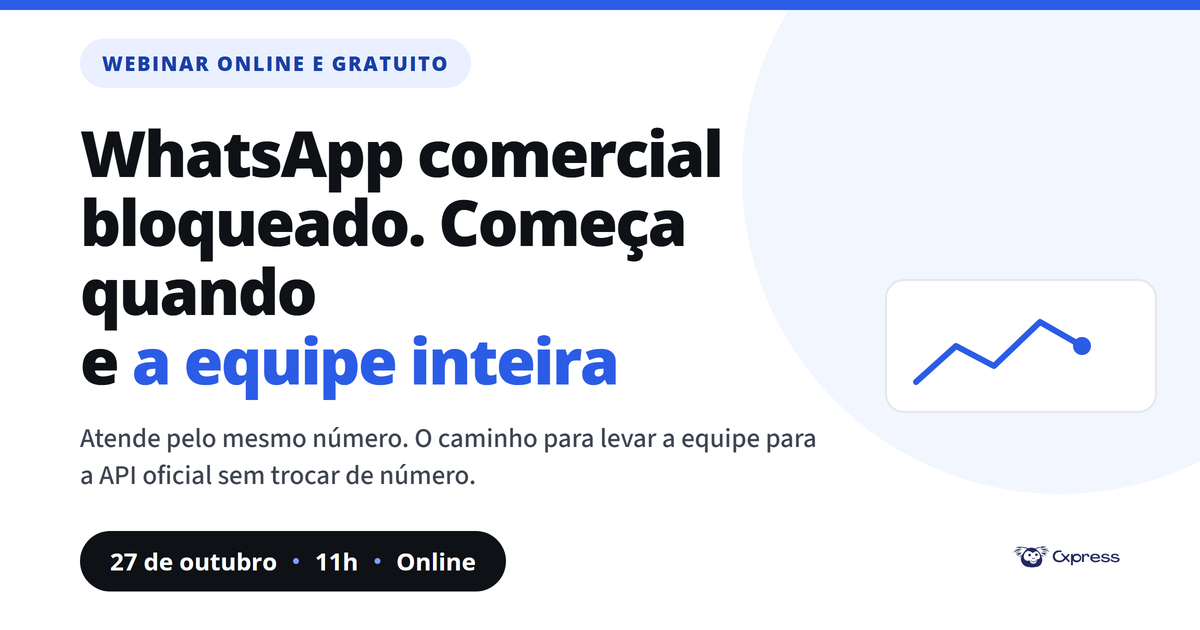
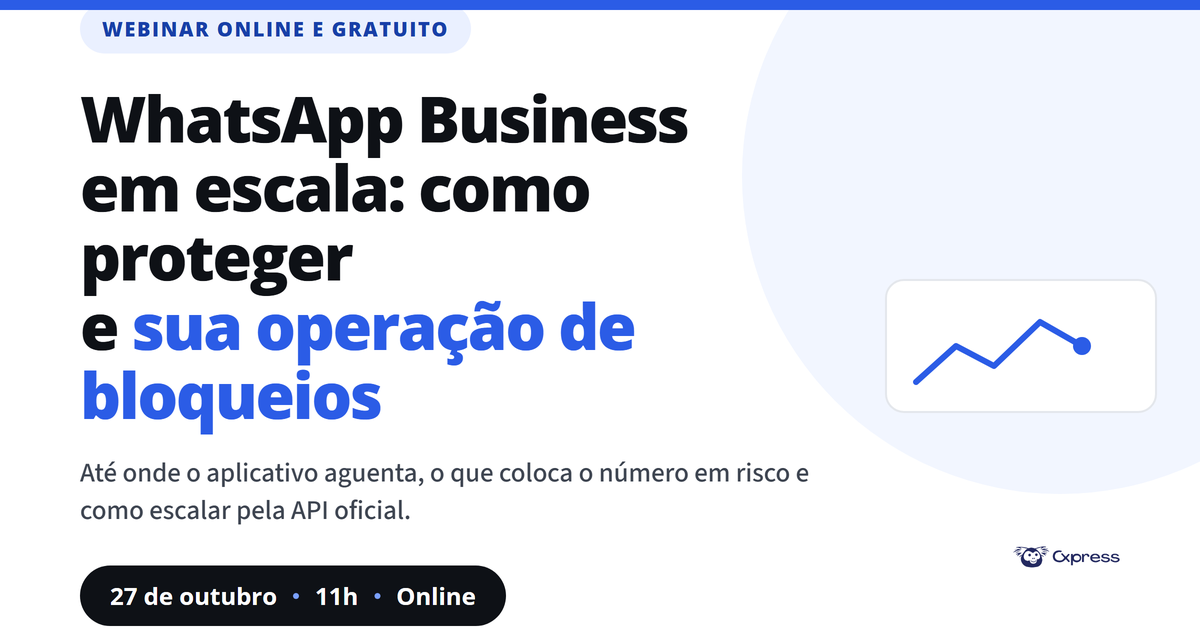
Corrigir premissa factual e trocar titulo da LP do webinar de 27 de outubro (#744)

Changed region(s): [[0.0617, 0.1508, 0.6783, 0.9952], [0.0617, 0.0905, 0.37, 0.1206], [0.0617, 0.0302, 0.37, 0.0603]]

diff --git a/landing-pages/cxpress/webinar-whatsapp-equipe/index.html b/landing-pages/cxpress/webinar-whatsapp-equipe/index.html
@@ -10,12 +10,12 @@ j=d.createElement(s),dl=l!='dataLayer'?'&l='+l:'';j.async=true;j.src=
 'https://www.googletagmanager.com/gtm.js?id='+i+dl;f.parentNode.insertBefore(j,f);
 })(window,document,'script','dataLayer','GTM-T4XDWHL3');</script>
   <!-- End Google Tag Manager -->
-  <title>Webinar WhatsApp comercial bloqueado | 27 de outubro, 11h | Cxpress</title>
+  <title>WhatsApp Business em escala: como proteger sua operação de bloqueios | 27 de outubro | Cxpress</title>
   <link rel="canonical" href="https://{{DOMAIN}}/webinar-whatsapp-equipe">
 
   <link rel="icon" type="image/png" href="../../brand/cxpress/assets/logos/logo-icon.png" />
 
-  <meta name="description" content="Webinar online e gratuito da Cxpress, 27 de outubro às 11h: por que o número da empresa é bloqueado quando a equipe inteira atende pelo mesmo WhatsApp, e como migrar para a API oficial sem trocar o número.">
+  <meta name="description" content="Webinar online e gratuito da Cxpress, 27 de outubro às 11h: até onde o WhatsApp Business aguenta, o que de fato coloca o número em risco de bloqueio e como escalar pela API oficial sem trocar de número.">
   <meta name="robots" content="index, follow">
   <meta name="author" content="Cxpress">
 
@@ -24,15 +24,15 @@ j=d.createElement(s),dl=l!='dataLayer'?'&l='+l:'';j.async=true;j.src=
   <meta property="og:locale" content="pt_BR">
   <meta property="og:url" content="https://{{DOMAIN}}/webinar-whatsapp-equipe">
   <meta property="og:title" content="Webinar WhatsApp comercial bloqueado | 27 de outubro, 11h | Cxpress">
-  <meta property="og:description" content="27 de outubro, 11h. Por que o número cai quando a equipe inteira atende pelo mesmo WhatsApp, e como migrar para a API oficial sem trocar de número.">
+  <meta property="og:description" content="27 de outubro, 11h. Até onde o WhatsApp Business aguenta, o que coloca o número em risco e como escalar pela API oficial sem trocar de número.">
   <meta property="og:image" content="https://{{DOMAIN}}/{{OG_IMAGE_PATH}}">
   <meta property="og:image:width" content="1200">
   <meta property="og:image:height" content="630">
-  <meta property="og:image:alt" content="Webinar gratuito da Cxpress sobre WhatsApp comercial bloqueado quando a equipe inteira atende pelo mesmo número, 27 de outubro às 11h">
+  <meta property="og:image:alt" content="Webinar gratuito da Cxpress sobre como escalar o WhatsApp Business sem risco de bloqueio, 27 de outubro às 11h">
 
   <meta name="twitter:card" content="summary_large_image">
   <meta name="twitter:title" content="Webinar WhatsApp comercial bloqueado | 27 de outubro, 11h | Cxpress">
-  <meta name="twitter:description" content="27 de outubro, 11h. Por que o número cai quando a equipe inteira atende pelo mesmo WhatsApp, e como migrar para a API oficial sem trocar de número.">
+  <meta name="twitter:description" content="27 de outubro, 11h. Até onde o WhatsApp Business aguenta, o que coloca o número em risco e como escalar pela API oficial sem trocar de número.">
   <meta name="twitter:image" content="https://{{DOMAIN}}/{{OG_IMAGE_PATH}}">
 
   <script type="application/ld+json">
@@ -40,8 +40,8 @@ j=d.createElement(s),dl=l!='dataLayer'?'&l='+l:'';j.async=true;j.src=
     "@context": "https://schema.org",
     "@graph": [
       { "@type": "Organization", "@id": "https://home.cxpress.io#organization", "name": "Cxpress", "url": "https://home.cxpress.io", "logo": "https://{{DOMAIN}}/{{BRAND_LOGO_PNG_PATH}}", "sameAs": ["https://www.linkedin.com/company/cxpress", "https://www.instagram.com/cxpress.io/"] },
-      { "@type": "WebPage", "@id": "https://{{DOMAIN}}/webinar-whatsapp-equipe#webpage", "url": "https://{{DOMAIN}}/webinar-whatsapp-equipe", "name": "Webinar WhatsApp comercial bloqueado | 27 de outubro, 11h | Cxpress", "inLanguage": "pt-BR", "isPartOf": { "@id": "https://home.cxpress.io#organization" }, "description": "27 de outubro, 11h. Por que o número cai quando a equipe inteira atende pelo mesmo WhatsApp, e como migrar para a API oficial sem trocar de número." },
-      { "@type": "Event", "name": "Webinar Cxpress: WhatsApp comercial bloqueado e operação com equipe", "startDate": "2026-10-27T11:00:00-03:00", "eventAttendanceMode": "https://schema.org/OnlineEventAttendanceMode", "eventStatus": "https://schema.org/EventScheduled", "inLanguage": "pt-BR", "location": { "@type": "VirtualLocation", "url": "https://{{DOMAIN}}/webinar-whatsapp-equipe" }, "image": "https://{{DOMAIN}}/{{OG_IMAGE_PATH}}", "description": "27 de outubro, 11h. Por que o número cai quando a equipe inteira atende pelo mesmo WhatsApp, e como migrar para a API oficial sem trocar de número.", "organizer": { "@id": "https://home.cxpress.io#organization" }, "offers": { "@type": "Offer", "price": "0", "priceCurrency": "BRL", "availability": "https://schema.org/InStock", "url": "https://{{DOMAIN}}/webinar-whatsapp-equipe" } }
+      { "@type": "WebPage", "@id": "https://{{DOMAIN}}/webinar-whatsapp-equipe#webpage", "url": "https://{{DOMAIN}}/webinar-whatsapp-equipe", "name": "Webinar WhatsApp comercial bloqueado | 27 de outubro, 11h | Cxpress", "inLanguage": "pt-BR", "isPartOf": { "@id": "https://home.cxpress.io#organization" }, "description": "27 de outubro, 11h. Até onde o WhatsApp Business aguenta, o que coloca o número em risco e como escalar pela API oficial sem trocar de número." },
+      { "@type": "Event", "name": "Webinar Cxpress: WhatsApp Business em escala, como proteger a operação de bloqueios", "startDate": "2026-10-27T11:00:00-03:00", "eventAttendanceMode": "https://schema.org/OnlineEventAttendanceMode", "eventStatus": "https://schema.org/EventScheduled", "inLanguage": "pt-BR", "location": { "@type": "VirtualLocation", "url": "https://{{DOMAIN}}/webinar-whatsapp-equipe" }, "image": "https://{{DOMAIN}}/{{OG_IMAGE_PATH}}", "description": "27 de outubro, 11h. Até onde o WhatsApp Business aguenta, o que coloca o número em risco e como escalar pela API oficial sem trocar de número.", "organizer": { "@id": "https://home.cxpress.io#organization" }, "offers": { "@type": "Offer", "price": "0", "priceCurrency": "BRL", "availability": "https://schema.org/InStock", "url": "https://{{DOMAIN}}/webinar-whatsapp-equipe" } }
     ]
   }
   </script>
@@ -362,8 +362,8 @@ height="0" width="0" style="display:none;visibility:hidden"></iframe></noscript>
       <div class="hero__inner">
         <div class="hero__content">
           <span class="eyebrow eyebrow--pill">Webinar online e gratuito &middot; 27 de outubro, 11h</span>
-          <h1>WhatsApp comercial bloqueado. Começa quando a equipe inteira atende pelo <b>mesmo número</b>.</h1>
-          <p class="lead">O WhatsApp Business foi desenhado para uma pessoa. Quando três, seis ou dez atendem pelo mesmo aparelho, a Meta lê como uso irregular e o bloqueio chega sem aviso. Neste webinar, o caminho para levar a equipe inteira para o ambiente oficial sem trocar o número que seus clientes já têm salvo.</p>
+          <h1>WhatsApp Business em escala: como proteger sua operação de <b>bloqueios</b>.</h1>
+          <p class="lead">O aplicativo conecta até quatro dispositivos, e até dez em alguns planos do Meta Verified. Operação que passa disso começa a improvisar, e é no improviso que mora o risco de bloqueio. Neste webinar, o que de fato coloca o número na mira e o caminho para escalar pela API oficial sem trocar o número que seus clientes já têm salvo.</p>
           <div class="cta-row">
             <a class="btn" href="#inscricao">Reservar minha vaga
               <svg width="16" height="16" viewBox="0 0 16 16" fill="none" aria-hidden="true"><path d="M3 8h10M9 4l4 4-4 4" stroke="currentColor" stroke-width="1.8" stroke-linecap="round" stroke-linejoin="round"/></svg>
@@ -378,7 +378,7 @@ height="0" width="0" style="display:none;visibility:hidden"></iframe></noscript>
         <div class="hero__visual">
           <div class="ficha reveal">
             <span class="ficha__label">O webinar</span>
-            <p class="ficha__title">WhatsApp comercial bloqueado: operação com equipe sem perder o número</p>
+            <p class="ficha__title">WhatsApp Business em escala, sem risco de bloqueio</p>
             <div class="ficha__rows">
               <div class="ficha__row">
                 <span class="ficha__k">Quando</span>
@@ -390,7 +390,7 @@ height="0" width="0" style="display:none;visibility:hidden"></iframe></noscript>
               </div>
               <div class="ficha__row">
                 <span class="ficha__k">Para quem</span>
-                <span class="ficha__v">Quem lidera atendimento numa operação com três ou mais pessoas no mesmo número</span>
+                <span class="ficha__v">Quem lidera atendimento e precisa escalar o WhatsApp sem colocar o número em risco</span>
               </div>
             </div>
           </div>
@@ -426,31 +426,31 @@ height="0" width="0" style="display:none;visibility:hidden"></iframe></noscript>
       <div class="wrap">
         <div class="sec-head reveal">
           <span class="eyebrow">O problema</span>
-          <h2>O número não cai por azar. Cai porque a operação cresceu e o aplicativo não.</h2>
-          <p>O WhatsApp Business comum foi desenhado para uma pessoa, num aparelho. A empresa contrata o segundo atendente, depois o terceiro. Todo mundo passa a usar o mesmo celular, ou a mesma conta num aplicativo de multiatendimento que a Meta não autoriza.</p>
+          <h2>O que coloca o número na mira é o atalho que a operação usa para crescer.</h2>
+          <p>O WhatsApp Business conecta até quatro dispositivos, e até dez em alguns planos do Meta Verified, com atribuição de conversa. Isso dá conta de um time pequeno. Quando a operação passa desse teto, ou passa a precisar de fila, SLA e relatório, começa o improviso.</p>
         </div>
         <div class="dores">
           <div class="dor reveal">
             <span class="dor__x" aria-hidden="true"><svg width="14" height="14" viewBox="0 0 14 14" fill="none"><path d="M3.5 3.5l7 7M10.5 3.5l-7 7" stroke="currentColor" stroke-width="2" stroke-linecap="round"/></svg></span>
             <div>
-              <h3>Vários atendentes no mesmo aparelho</h3>
+              <h3>Aplicativo ou site não oficial para atender em vários</h3>
             </div>
           </div>
           <div class="dor reveal">
             <span class="dor__x" aria-hidden="true"><svg width="14" height="14" viewBox="0 0 14 14" fill="none"><path d="M3.5 3.5l7 7M10.5 3.5l-7 7" stroke="currentColor" stroke-width="2" stroke-linecap="round"/></svg></span>
             <div>
-              <h3>Ferramenta não oficial de multiatendimento</h3>
+              <h3>Disparo em massa para quem não pediu contato</h3>
             </div>
           </div>
           <div class="dor reveal">
             <span class="dor__x" aria-hidden="true"><svg width="14" height="14" viewBox="0 0 14 14" fill="none"><path d="M3.5 3.5l7 7M10.5 3.5l-7 7" stroke="currentColor" stroke-width="2" stroke-linecap="round"/></svg></span>
             <div>
-              <h3>Disparo para base fria, fora das regras</h3>
+              <h3>Crescer no improviso em vez de migrar para o caminho oficial</h3>
             </div>
           </div>
         </div>
-        <p class="note" style="text-align:center;margin-top:34px">As três práticas que mais derrubam número de empresa</p>
-        <p class="note note--long" style="text-align:center;max-width:62ch;margin:14px auto 0">Do lado de fora, isso parece organização. Do lado da Meta, parece uso irregular. E o bloqueio chega sem aviso, no dia em que a operação menos pode parar.</p>
+        <p class="note" style="text-align:center;margin-top:34px">A própria Meta aponta o uso de aplicativos e sites não oficiais como caminho para bloqueio temporário ou permanente</p>
+        <p class="note note--long" style="text-align:center;max-width:62ch;margin:14px auto 0">O improviso resolve por um tempo e cobra depois. O bloqueio chega sem aviso, no dia em que a operação menos pode parar.</p>
         <div class="cta-row cta-row--center" style="margin-top:40px">
           <a class="btn" href="#inscricao">Reservar minha vaga
             <svg width="16" height="16" viewBox="0 0 16 16" fill="none" aria-hidden="true"><path d="M3 8h10M9 4l4 4-4 4" stroke="currentColor" stroke-width="1.8" stroke-linecap="round" stroke-linejoin="round"/></svg>
@@ -464,28 +464,28 @@ height="0" width="0" style="display:none;visibility:hidden"></iframe></noscript>
       <div class="wrap">
         <div class="sec-head reveal">
           <span class="eyebrow">O que você vai ver</span>
-          <h2>Quarenta minutos sobre operar com equipe sem derrubar o número</h2>
+          <h2>Quarenta minutos sobre escalar o WhatsApp sem colocar o número em risco</h2>
           <p>Quatro pontos, cada um com uma resposta que você aplica na semana seguinte.</p>
         </div>
         <div class="dores">
           <div class="dor reveal">
             <span class="ver__ck" aria-hidden="true"><svg width="14" height="14" viewBox="0 0 15 15" fill="none"><path d="M2.5 7.7l3.2 3.2L12.5 4" stroke="currentColor" stroke-width="2" stroke-linecap="round" stroke-linejoin="round"/></svg></span>
             <div>
-              <h3>Por que operação com equipe aciona o alerta da Meta</h3>
-              <p>O que o aplicativo comum enxerga quando seis pessoas usam o mesmo número.</p>
+              <h3>Até onde o WhatsApp Business aguenta</h3>
+              <p>Quantos dispositivos o aplicativo conecta, o que muda com o Meta Verified e onde fica o teto real da sua operação.</p>
             </div>
           </div>
           <div class="dor reveal">
             <span class="ver__ck" aria-hidden="true"><svg width="14" height="14" viewBox="0 0 15 15" fill="none"><path d="M2.5 7.7l3.2 3.2L12.5 4" stroke="currentColor" stroke-width="2" stroke-linecap="round" stroke-linejoin="round"/></svg></span>
             <div>
-              <h3>Qual das três a sua operação faz hoje</h3>
-              <p>Você sai sabendo apontar, entre as três, a que a sua operação pratica sem perceber.</p>
+              <h3>O que de fato coloca o número na mira</h3>
+              <p>Aplicativo não oficial, disparo fora das regras e os sinais que a Meta trata como risco. Você sai sabendo qual deles a sua operação pratica sem perceber.</p>
             </div>
           </div>
           <div class="dor reveal">
             <span class="ver__ck" aria-hidden="true"><svg width="14" height="14" viewBox="0 0 15 15" fill="none"><path d="M2.5 7.7l3.2 3.2L12.5 4" stroke="currentColor" stroke-width="2" stroke-linecap="round" stroke-linejoin="round"/></svg></span>
             <div>
-              <h3>O que muda na API oficial para quem tem time</h3>
+              <h3>O que muda na API oficial quando a operação cresce</h3>
               <p>Fila por setor, distribuição entre atendentes, histórico por cliente e a titularidade do número no CNPJ da empresa.</p>
             </div>
           </div>
@@ -511,7 +511,7 @@ height="0" width="0" style="display:none;visibility:hidden"></iframe></noscript>
           <div class="dor reveal">
             <span class="ver__ck" aria-hidden="true"><svg width="14" height="14" viewBox="0 0 15 15" fill="none"><path d="M2.5 7.7l3.2 3.2L12.5 4" stroke="currentColor" stroke-width="2" stroke-linecap="round" stroke-linejoin="round"/></svg></span>
             <div>
-              <h3>Você tem três ou mais pessoas atendendo clientes pelo mesmo número</h3>
+              <h3>Sua operação já passou, ou está perto de passar, dos dispositivos que o aplicativo conecta</h3>
             </div>
           </div>
           <div class="dor reveal">

diff --git a/landing-pages/cxpress/webinar-whatsapp-equipe/assets/og-template.html b/landing-pages/cxpress/webinar-whatsapp-equipe/assets/og-template.html
@@ -38,8 +38,8 @@
   </svg>
   <div class="content">
     <span class="badge">Webinar online e gratuito</span>
-    <div class="title">WhatsApp comercial<br>bloqueado. Começa quando<br>e <mark>a equipe inteira</mark></div>
-    <div class="sub">Atende pelo mesmo número. O caminho para levar a equipe para a API oficial sem trocar de número.</div>
+    <div class="title">WhatsApp Business<br>em escala: como proteger<br>e <mark>sua operação de bloqueios</mark></div>
+    <div class="sub">Até onde o aplicativo aguenta, o que coloca o número em risco e como escalar pela API oficial.</div>
     <div class="pill">27 de outubro <span class="sep"></span> 11h <span class="sep"></span> Online</div>
   </div>
   <img class="logo" src="../../../../brand/cxpress/assets/logos/logo-primary.png" alt="Cxpress">
